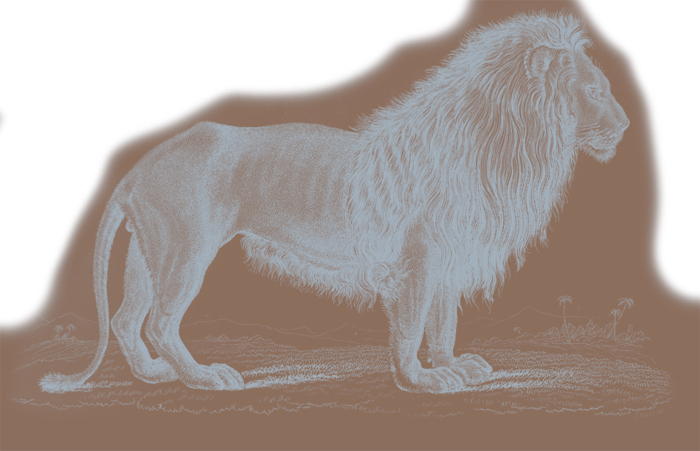
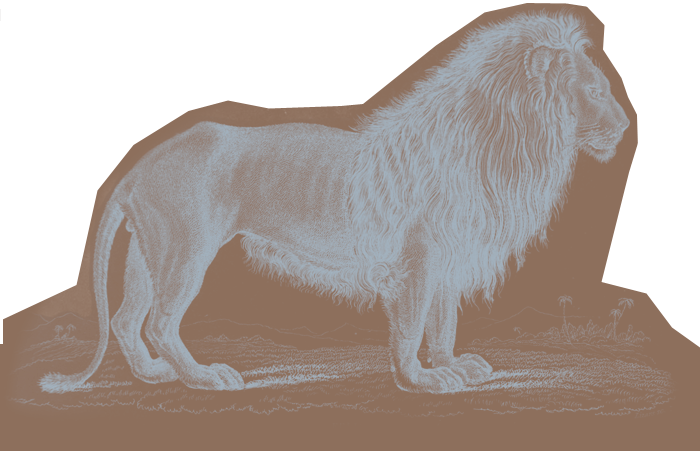
other color

Changed region(s): [[0.0, 0.0, 1.0, 0.7761]]

diff --git a/style.css b/style.css
@@ -27,9 +27,9 @@ h1 {
 	display: block;
 	width: 700px;
 	height: 481px;
-	color: #9FA66F; 
+	color: #7B9975; 
 	margin-bottom: -300px;
-	background: url(lion.png) no-repeat 0 60px;
+	background: url(lion.png) no-repeat 0 67px;
 	text-shadow: black 0 0 3px;
 	font: 6em 'UnifrakturCook';
 	margin-top: 10px;
@@ -40,12 +40,12 @@ h1 .small {
 }
 h1 a {
 	text-decoration: none;
-	color: #9FA66F;
+	color: #7B9975;
 	text-shadow: black 0 0 3px;
 }
 h2 { 
 	font-size: 1.6em;
-	color: #9FA66F;
+	color: #7B9975;
 	margin-bottom: 0;
 }
 h3 {
@@ -53,18 +53,18 @@ h3 {
 	color: #9FA66F;
 }
 a {
-	color: #9FA66F;
+	color: #7B9975;
 }
 .description { 
 	font-size: 1.5em;
 	margin-bottom: 30px;
 	margin-top: 30px;
 	color: black;
-	background-color: #A3B2BF;
+	background-color: #a3b2bf;
 	padding: 10px;
 	text-align: justify;
-		border: thin solid #775c4e;
-
+	border: thin solid #775c4e;
+	opacity: 1;
 }
 .description:first-letter {
 	font: 2.4em 'UnifrakturCook';
@@ -76,7 +76,7 @@ a {
 }
 pre {
 	background: #000;
-	color: #9FA66F;
+	color: #7B9975;
 	padding: 10px;
 	border: thin solid #775c4e;
 }
